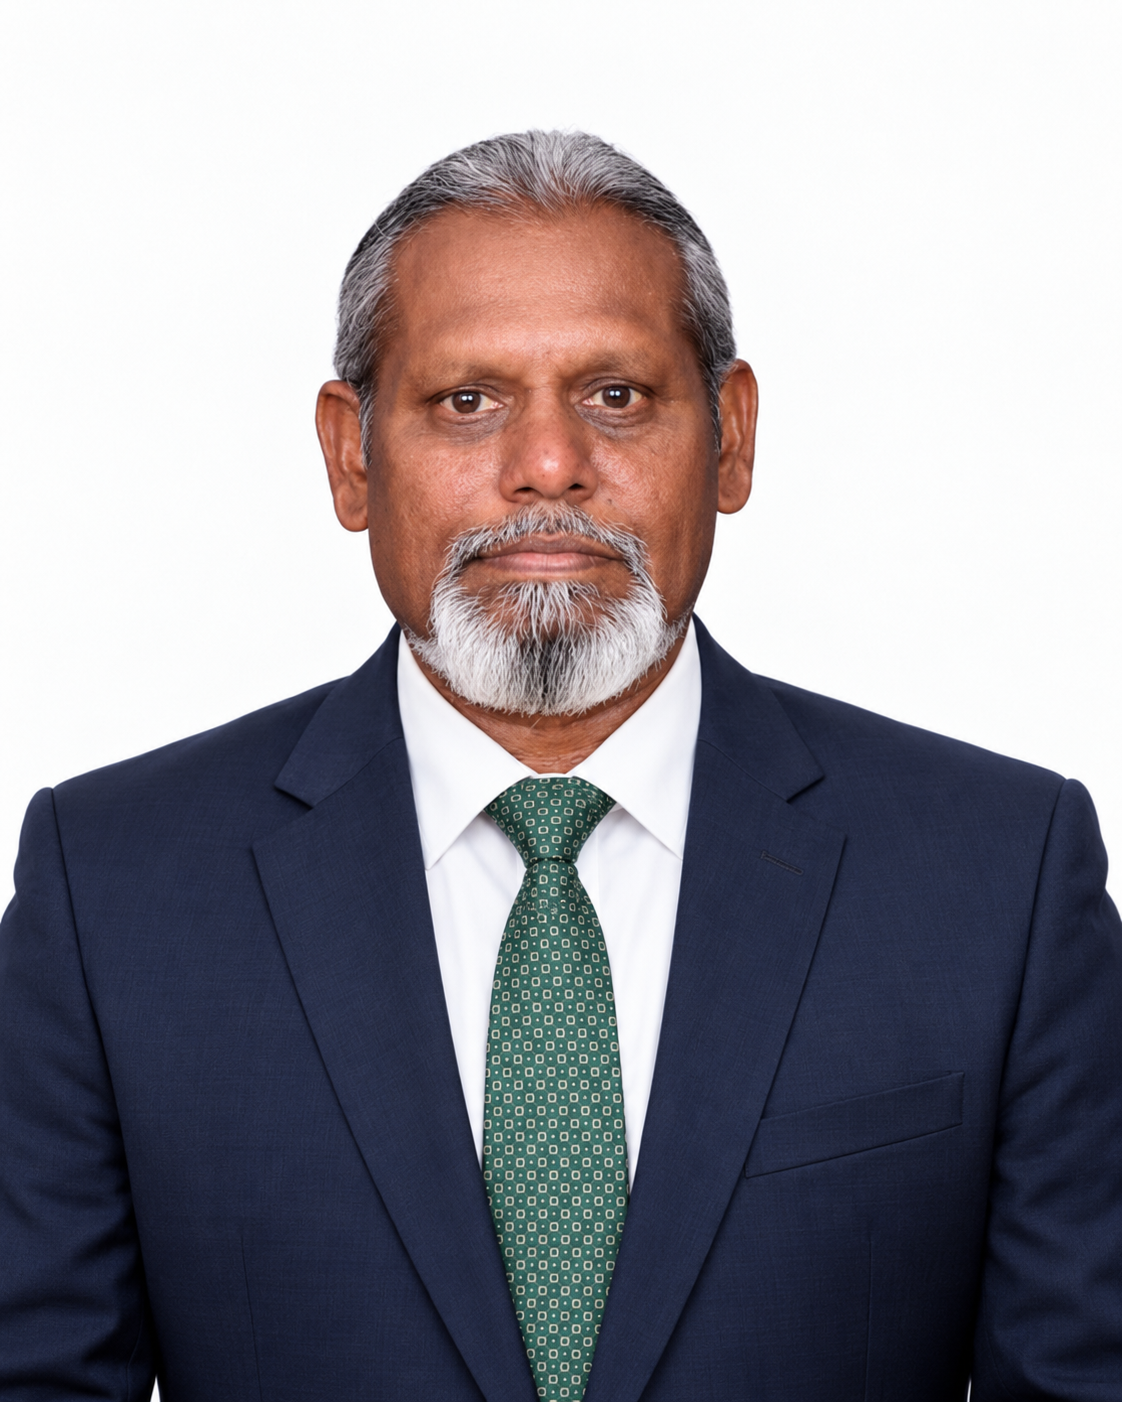
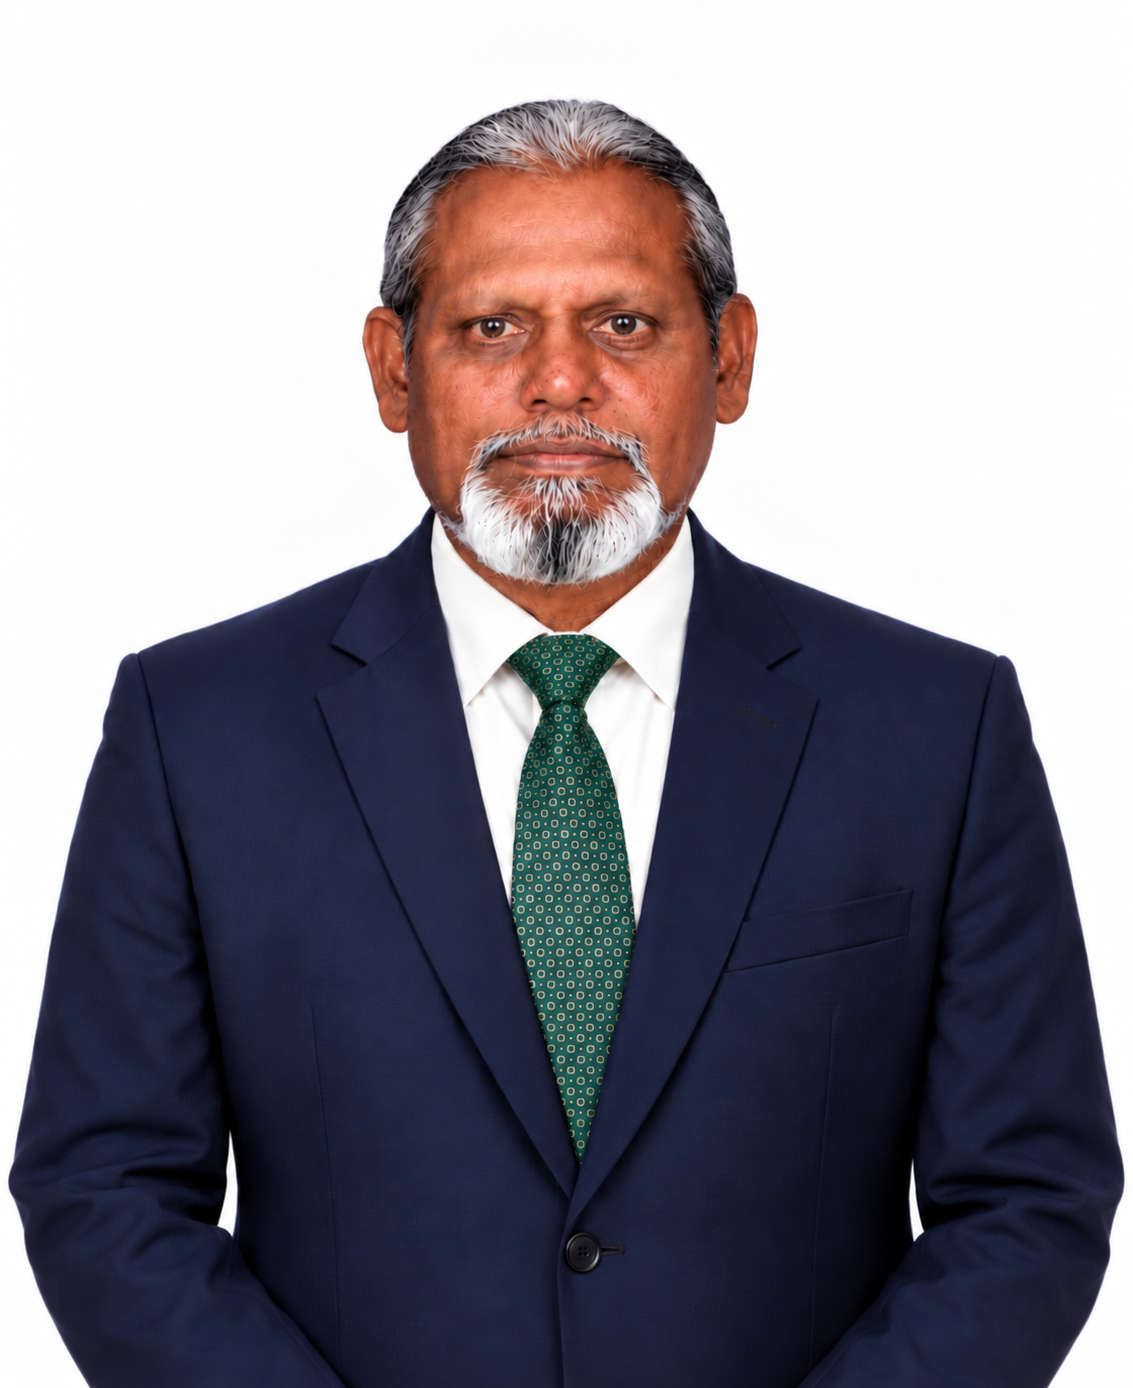
source

diff --git a/resources/js/pages/HomePageDeferred.tsx b/resources/js/pages/HomePageDeferred.tsx
@@ -262,7 +262,7 @@ export function HomePageDeferred() {
             <div className="relative">
               <div className="mb-3 t-eyebrow text-accent">What we build</div>
               <h2 className="t-section-title">From product vision to operating reality.</h2>
-              <p className="mt-4 t-body">
+              <p className="mt-4 t-body !text-white text-white">
                 Enterprise applications; multi-tenant SaaS; AI assistants and document intelligence; data platforms and dashboards; ERP/CRM extensions; cloud deployment and support.
               </p>
               {/* <ul className="mt-5 grid grid-cols-1 gap-x-8 gap-y-4 sm:grid-cols-2">

diff --git a/resources/js/pages/HomePage.tsx b/resources/js/pages/HomePage.tsx
@@ -13,8 +13,8 @@ const HomePageDeferred = lazyWithRetry("HomePageDeferred", () =>
 const trustMetrics = [
   { icon: Award, value: "25+", label: "Years of experience" },
   { icon: Users2, value: "2,600+", label: "Customers" },
-  { icon: Globe2, value: "22+", label: "Countries reached" },
-  { icon: Cpu, value: "7+", label: "Products" },
+  { icon: Globe2, value: "20+", label: "Countries reached" },
+  { icon: Cpu, value: "7", label: "Products" },
 ];
 
 export function HomePage({
